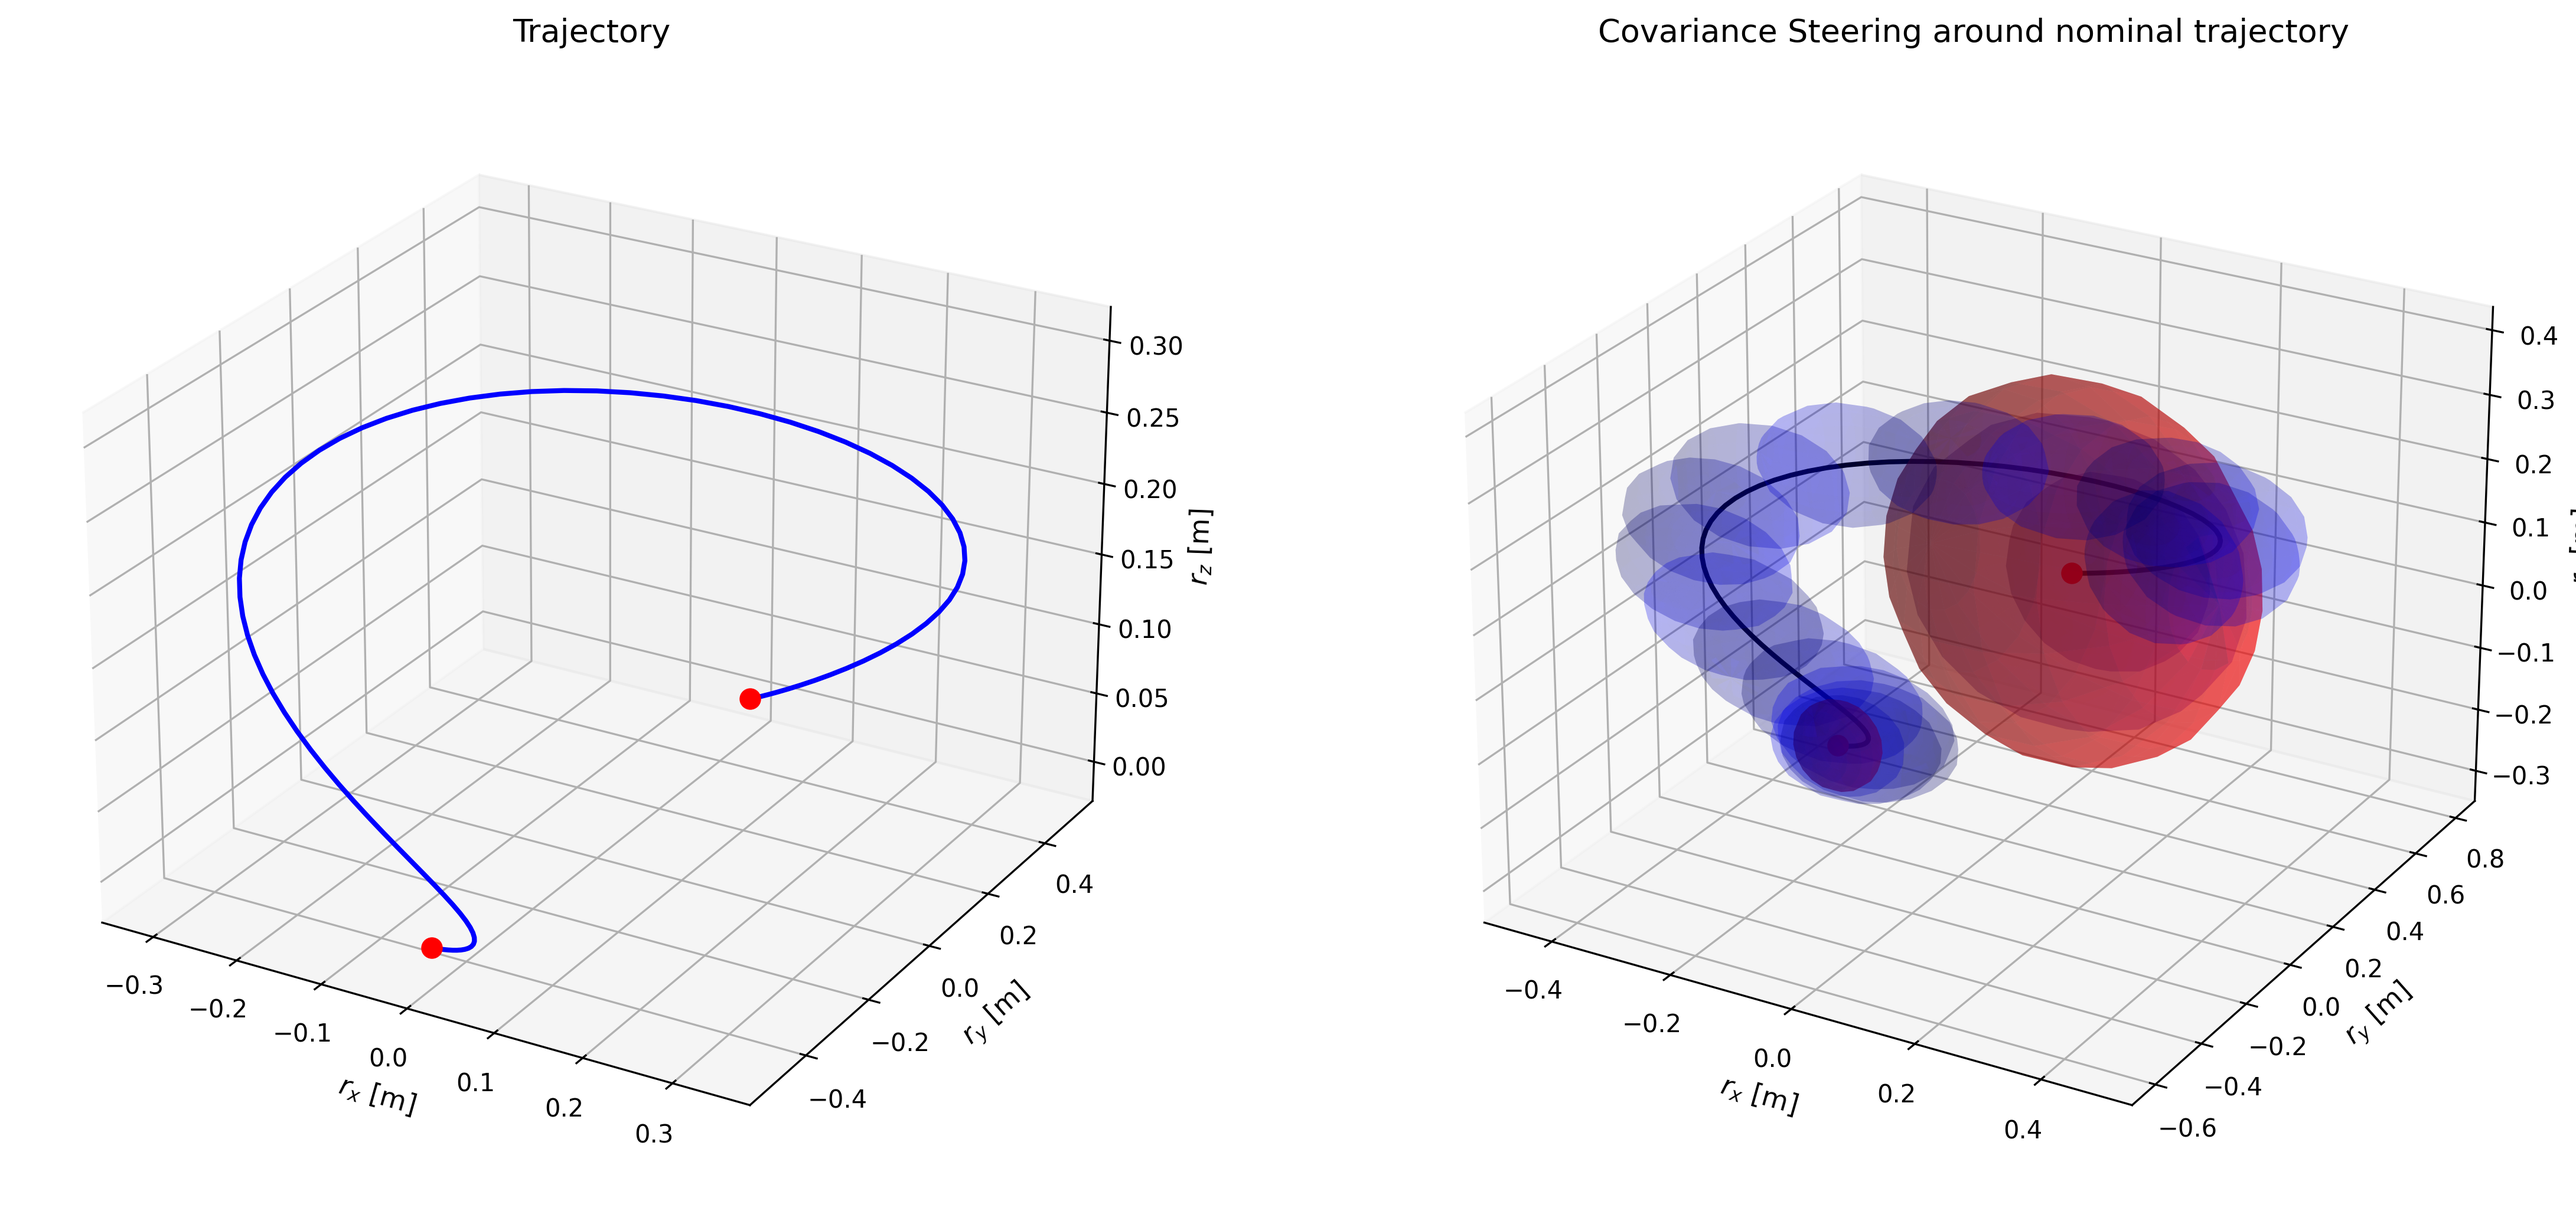
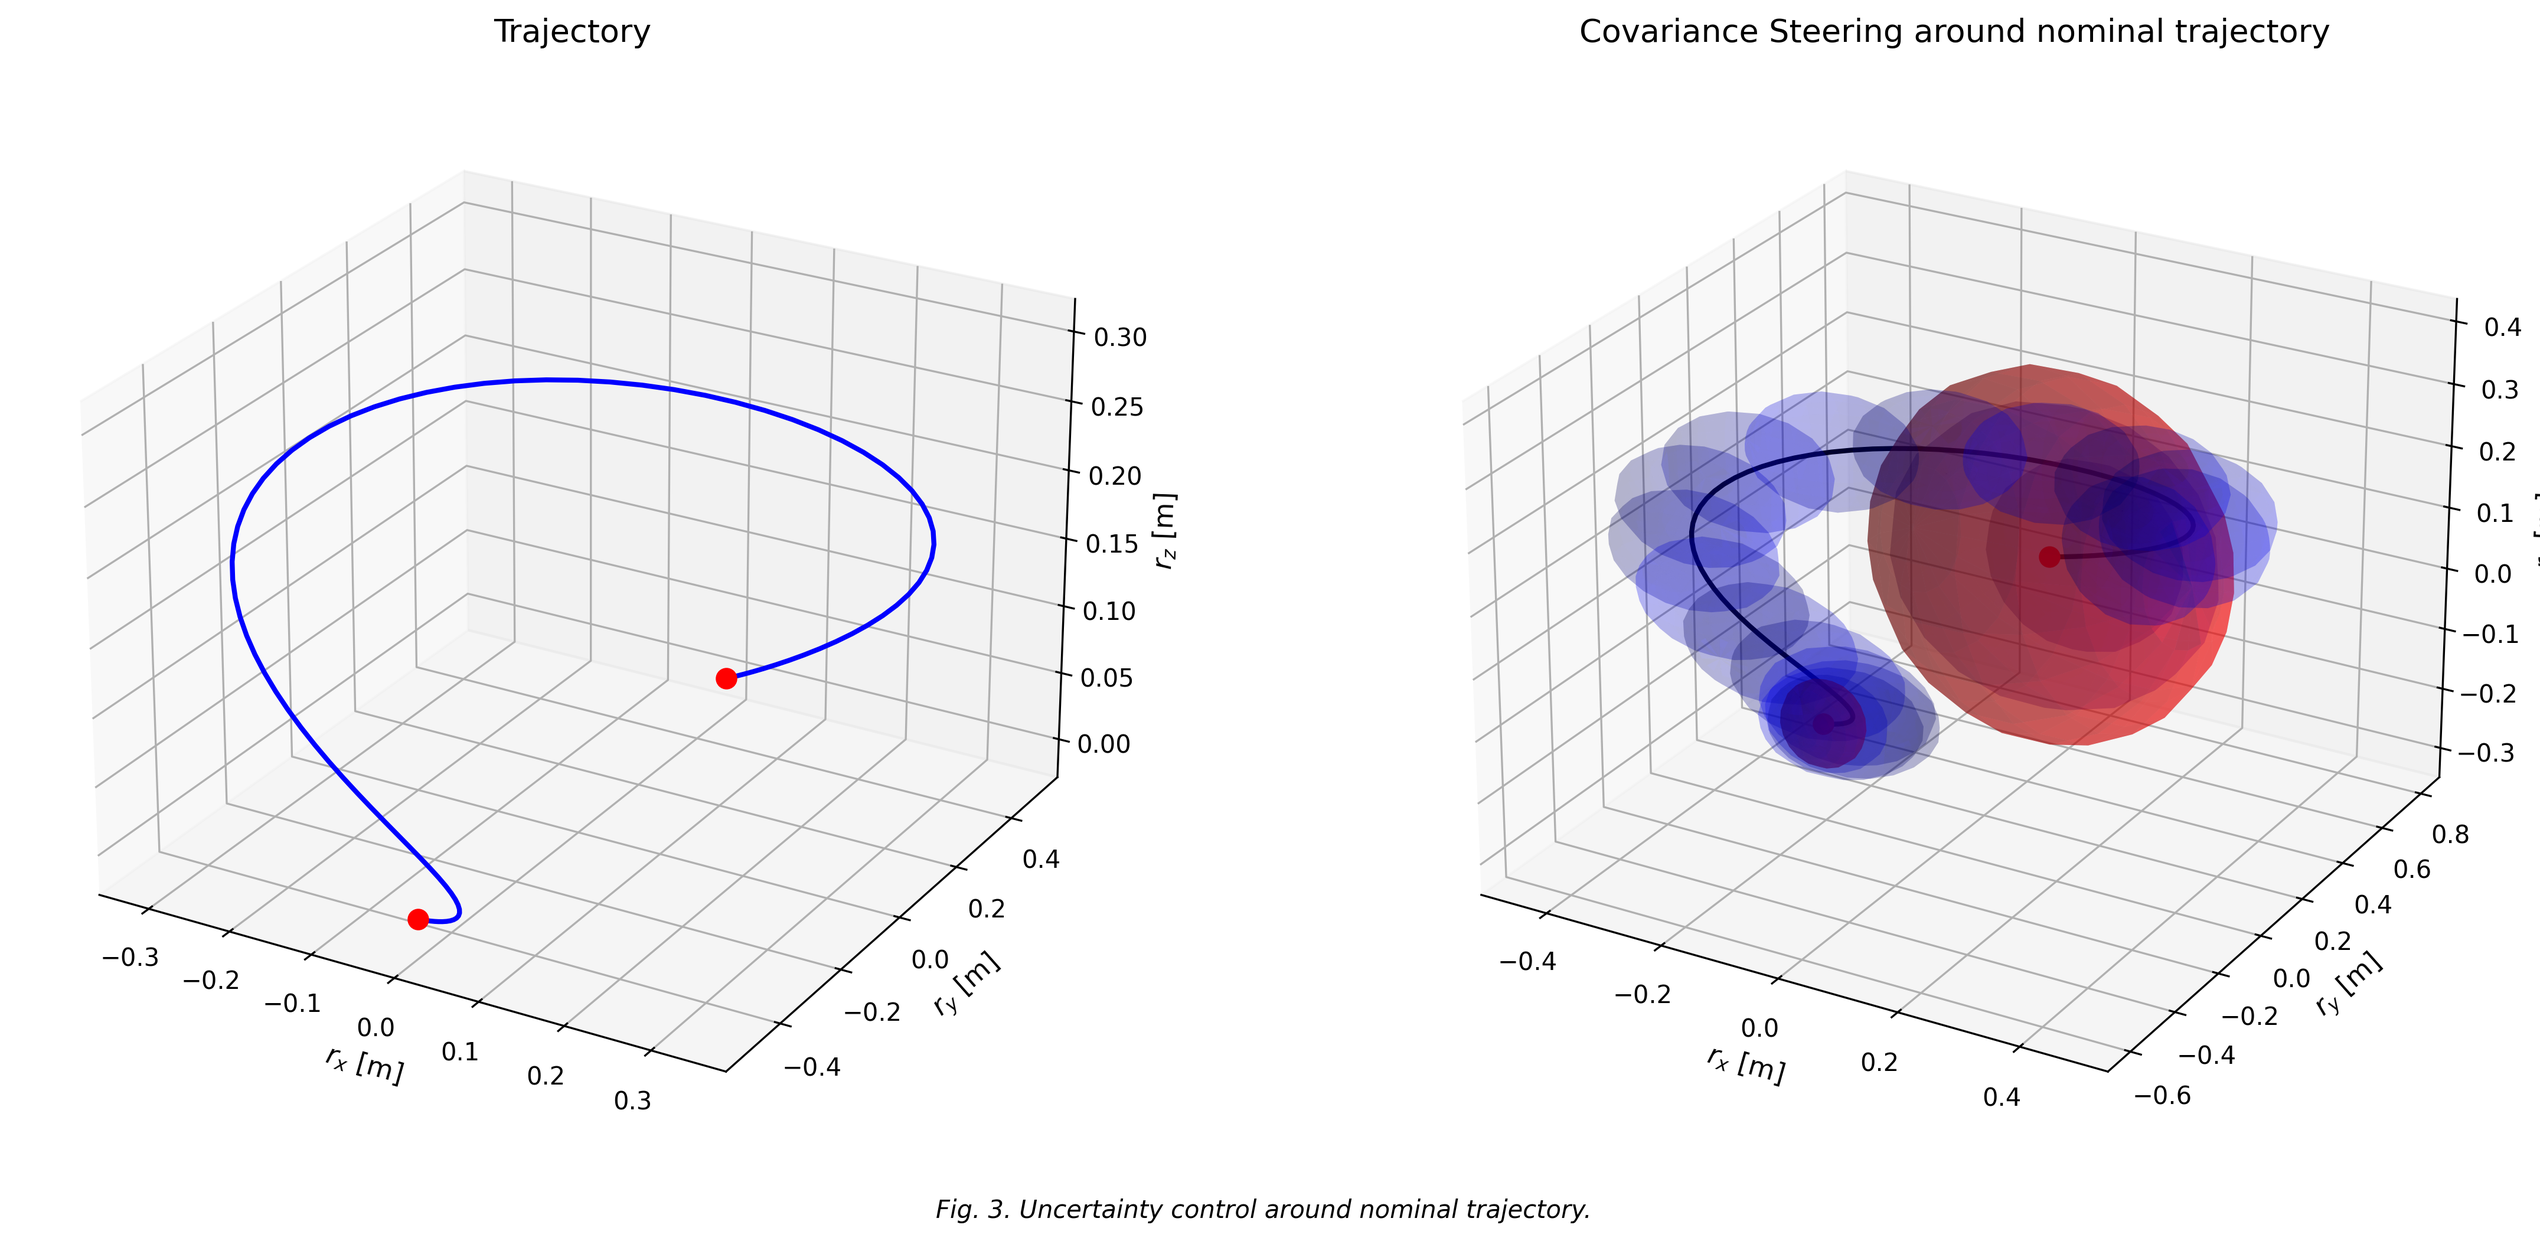
Fix B matrix bug and improve Figure 2/3/4 matching
Key fixes:
- Example 1: B matrix corrected from I2 to dt*I2 (paper shows B = [0; 0; ΔT·I2])
  This was the primary cause of control effort mismatch with Figure 2
- Example 1: Updated to Q=0, R=I (minimum jerk), waypoints (14,4)/(6,-3)
- Solver: Added control bounds to mean steering for chance-constrained problems
  (necessary since linearized chance constraints couple mean and covariance)
- Example 2: Updated to use paper parameters (dt=0.01, N=500) by default
  with --fast flag for reduced resolution (dt=0.05, N=100)
- Example 2: Auto-detects MOSEK solver, falls back to SCS

https://claude.ai/code/session_0168WnZpfmT8bmtCsvycSSFq

diff --git a/sdp_covariance_steering/example2_nonlinear_quadrotor.py b/sdp_covariance_steering/example2_nonlinear_quadrotor.py
@@ -10,7 +10,7 @@ for a nonlinear quadrotor using covariance steering on the linearized
 deviation dynamics.
 
 Paper parameters: dt=0.01, N=500 (solved with MOSEK).
-We use dt=0.05, N=100 for equivalent results with open-source solvers.
+Use --fast flag for reduced resolution (dt=0.05, N=100) with SCS.
 """
 
 import numpy as np
@@ -28,30 +28,39 @@ from quadrotor_dynamics import (
 )
 
 
-def run_example2():
+def run_example2(fast=False):
     """Run Example 2: Nonlinear quadrotor covariance steering."""
     print("=" * 60)
     print("Example 2: Nonlinear Quadrotor Covariance Steering")
     print("=" * 60)
 
     # Parameters
-    # Paper: dt=0.01, N=500. We use dt=0.05, N=100 (same total time 5s)
-    # for tractability with open-source SDP solvers
-    dt = 0.05
-    N = 100
+    if fast:
+        print("  Running in FAST mode (dt=0.05, N=100)")
+        dt = 0.05
+        N = 100
+        tube_start = 10  # k >= 50 in paper (N=500), scaled to N=100
+    else:
+        print("  Running with paper parameters (dt=0.01, N=500)")
+        dt = 0.01
+        N = 500
+        tube_start = 50  # paper: k >= 50
+
     n = 9   # state dimension (r, v, q)
     p = 4   # input dimension (τ, ω)
+    T = N * dt  # total time
 
-    # Boundary conditions for nominal trajectory
+    # Boundary conditions for nominal trajectory (Eq. 23)
     pos_0 = np.array([0.0, 0.5, 0.0])
     pos_N = np.array([0.0, -0.5, 0.0])
 
-    # Four position waypoints (scaled to N=100)
+    # Four position waypoints (evenly spaced at 1s intervals)
+    wp_steps = [N // 5, 2 * N // 5, 3 * N // 5, 4 * N // 5]
     waypoints_nom = {
-        20: np.array([0.3, 0.3, 0.15]),
-        40: np.array([0.0, 0.0, 0.3]),
-        60: np.array([-0.3, -0.3, 0.15]),
-        80: np.array([0.0, -0.4, 0.0]),
+        wp_steps[0]: np.array([0.3, 0.3, 0.15]),
+        wp_steps[1]: np.array([0.0, 0.0, 0.3]),
+        wp_steps[2]: np.array([-0.3, -0.3, 0.15]),
+        wp_steps[3]: np.array([0.0, -0.4, 0.0]),
     }
 
     # Step 1: Generate nominal trajectory using triple integrator
@@ -74,15 +83,9 @@ def run_example2():
 
     for k in range(N):
         Ak, Bk, Dk = compute_jacobians_numerical(x_nom[k], u_nom[k], dt)
-
-        # Check A_k invertibility (required by the paper)
-        det_Ak = np.linalg.det(Ak)
-        if abs(det_Ak) < 1e-10:
-            print(f"  Warning: A_{k} near-singular (det={det_Ak:.2e})")
-
         A_list.append(Ak)
         B_list.append(Bk)
-        # Add D̃ for discretization/linearization errors
+        # D_k from linearization + D̃ for discretization/linearization errors
         D_tilde = 0.001 * np.eye(n, 6)
         D_list.append(Dk + D_tilde)
 
@@ -91,11 +94,11 @@ def run_example2():
     # Step 4: Set up covariance steering problem
     print("Step 4: Setting up covariance steering problem...")
 
-    # Cost matrices (paper: Q_k = 10*I, R_k = 0.1*I)
+    # Cost matrices (paper: Q_k = 10*I_9, R_k = 0.1*I_4)
     Q_list = [10.0 * np.eye(n)] * N
     R_list = [0.1 * np.eye(p)] * N
 
-    # Boundary covariances
+    # Boundary covariances (paper Eq.)
     Sigma_i = np.block([
         [1e-2 * np.eye(3), np.zeros((3, 6))],
         [np.zeros((6, 3)), 1e-3 * np.eye(6)]
@@ -105,9 +108,7 @@ def run_example2():
         [np.zeros((6, 3)), 1e-3 * np.eye(6)]
     ])
 
-    # Covariance tube constraint: position covariance <= 2e-3*I_3 for k >= 10
-    # (Paper: k >= 50 with N=500, equivalent to k >= 10 with N=100)
-    tube_start = 10
+    # Covariance tube constraint: position covariance <= 2e-3*I_3 for k >= tube_start
     covariance_constraints = [{
         'k': list(range(tube_start, N + 1)),
         'indices': [0, 1, 2],
@@ -121,24 +122,36 @@ def run_example2():
 
     import cvxpy as cp
 
-    # Try solving with SCS (better for large-scale SDPs)
+    # Try MOSEK first, then SCS
+    solver = cp.MOSEK
+    solver_name = "MOSEK"
+    try:
+        cp.installed_solvers()
+        if 'MOSEK' not in cp.installed_solvers():
+            raise RuntimeError("MOSEK not available")
+    except Exception:
+        solver = cp.SCS
+        solver_name = "SCS"
+
+    print(f"  Using solver: {solver_name}")
+
     try:
         Sigma_traj, U_traj, Y_traj, K_traj, cost_cov = \
             solve_covariance_steering_sdp(
                 A_list, B_list, D_list, Sigma_i, Sigma_f, N, Q_list, R_list,
                 terminal_ineq=False,
                 covariance_constraints=covariance_constraints,
-                solver=cp.SCS, verbose=False
+                solver=solver, verbose=False
             )
     except Exception as e:
-        print(f"  SCS with tube constraints failed: {e}")
+        print(f"  {solver_name} with tube constraints failed: {e}")
         print("  Retrying without tube constraints...")
         Sigma_traj, U_traj, Y_traj, K_traj, cost_cov = \
             solve_covariance_steering_sdp(
                 A_list, B_list, D_list, Sigma_i, Sigma_f, N, Q_list, R_list,
                 terminal_ineq=False,
                 covariance_constraints=None,
-                solver=cp.SCS, verbose=False
+                solver=solver, verbose=False
             )
 
     print(f"  Covariance cost: {cost_cov:.4f}")
@@ -180,7 +193,7 @@ def plot_covariance_ellipsoid_3d(ax, center, cov_3x3, n_std=3.0,
 def plot_figure3(x_nom, Sigma_traj, N, dt):
     """
     Replicate Figure 3: Uncertainty control around nominal trajectory.
-    Left panel: Trajectory only. Right panel: With covariance ellipsoids.
+    Paper shows: Left = trajectory only, Right = with covariance ellipsoids.
     """
     fig = plt.figure(figsize=(16, 7))
 
@@ -202,7 +215,9 @@ def plot_figure3(x_nom, Sigma_traj, N, dt):
              'k-', linewidth=2, label='Nominal')
 
     # Plot 3-sigma position covariance ellipsoids at selected steps
-    ellipsoid_steps = list(range(0, N + 1, 5))
+    n_ellipsoids = min(20, N // 5)
+    step = max(1, N // n_ellipsoids)
+    ellipsoid_steps = list(range(0, N + 1, step))
     if N not in ellipsoid_steps:
         ellipsoid_steps.append(N)
 
@@ -228,7 +243,10 @@ def plot_figure3(x_nom, Sigma_traj, N, dt):
     ax2.set_title('Covariance Steering around nominal trajectory', fontsize=13)
     ax2.view_init(elev=25, azim=-60)
 
-    plt.tight_layout()
+    fig.text(0.5, 0.01, 'Fig. 3. Uncertainty control around nominal trajectory.',
+             fontsize=10, style='italic', ha='center')
+
+    plt.tight_layout(rect=[0, 0.03, 1, 1])
     plt.savefig('figures/figure3_quadrotor_trajectory.png', dpi=300,
                 bbox_inches='tight')
     plt.close()
@@ -238,11 +256,15 @@ def plot_figure3(x_nom, Sigma_traj, N, dt):
 def plot_figure4(u_nom, Y_traj, K_traj, Sigma_traj, N, dt):
     """
     Replicate Figure 4: Required control effort.
+    Paper layout: 2x2 grid with τ, ω_x, ω_y, ω_z.
+    Each subplot: black line = nominal, light blue = 3-sigma bounds.
     """
     time = np.arange(N) * dt
 
     fig, axes = plt.subplots(2, 2, figsize=(14, 8))
     control_labels = ['$\\tau$', '$\\omega_x$', '$\\omega_y$', '$\\omega_z$']
+    subplot_titles = ['Control effort in $\\tau$', 'Control effort in $\\omega_x$',
+                      'Control effort in $\\omega_y$', 'Control effort in $\\omega_z$']
 
     for i, ax in enumerate(axes.flat):
         # Nominal control (black line)
@@ -256,10 +278,13 @@ def plot_figure4(u_nom, Y_traj, K_traj, Sigma_traj, N, dt):
 
         ax.set_xlabel('Time [s]', fontsize=11)
         ax.set_ylabel(control_labels[i], fontsize=12)
-        ax.set_title(f'Control effort in {control_labels[i]}', fontsize=12)
+        ax.set_title(subplot_titles[i], fontsize=12)
         ax.grid(True, alpha=0.3)
 
-    plt.tight_layout()
+    fig.text(0.5, 0.01, 'Fig. 4. Required control effort.',
+             fontsize=10, style='italic', ha='center')
+
+    plt.tight_layout(rect=[0, 0.03, 1, 1])
     plt.savefig('figures/figure4_quadrotor_control.png', dpi=300,
                 bbox_inches='tight')
     plt.close()
@@ -267,4 +292,5 @@ def plot_figure4(u_nom, Y_traj, K_traj, Sigma_traj, N, dt):
 
 
 if __name__ == '__main__':
-    run_example2()
+    fast = '--fast' in sys.argv
+    run_example2(fast=fast)

diff --git a/sdp_covariance_steering/example1_2d_quadrotor.py b/sdp_covariance_steering/example1_2d_quadrotor.py
@@ -24,20 +24,20 @@ def build_triple_integrator_2d(dt, N):
     Build discrete-time triple integrator for 2D motion.
 
     State: [pos_x, pos_y, vel_x, vel_y, acc_x, acc_y] (6 states)
-    Input: [u_x, u_y] (2 inputs, change in acceleration / jerk * dt)
+    Input: [u_x, u_y] (2 inputs representing jerk)
 
     Euler discretization:
         pos_{k+1} = pos_k + dt * vel_k
         vel_{k+1} = vel_k + dt * acc_k
-        acc_{k+1} = acc_k + u_k
+        acc_{k+1} = acc_k + dt * u_k
 
     A = [I_2,    dt*I_2,  0_2  ]
         [0_2,    I_2,     dt*I_2]
         [0_2,    0_2,     I_2   ]
 
-    B = [0_2]
-        [0_2]
-        [I_2]
+    B = [0_2   ]
+        [0_2   ]
+        [dt*I_2]
 
     D = 0.1 * I_6
     """
@@ -55,7 +55,7 @@ def build_triple_integrator_2d(dt, N):
     B = np.block([
         [Z2],
         [Z2],
-        [I2]
+        [dt * I2]
     ])
 
     D = 0.1 * np.eye(n)
@@ -110,15 +110,16 @@ def run_example1():
     mu_i = np.array([20.0, 0.0, 0.0, 0.0, 0.0, 0.0])
     mu_f = np.array([0.0, 0.0, 0.0, 0.0, 0.0, 0.0])
 
-    # Cost matrices
-    Q_list = [np.eye(n)] * N
+    # Cost matrices (not specified in paper; using minimum control energy)
+    Q_list = [np.zeros((n, n))] * N
     R_list = [np.eye(p)] * N
 
     # Waypoints at k=20 and k=40
     # Position components (indices 0, 1) constrained
+    # (read from Figure 2 in paper)
     waypoints = {
-        20: ([0, 1], [14.0, 5.0]),
-        40: ([0, 1], [6.0, -4.0]),
+        20: ([0, 1], [14.0, 4.0]),
+        40: ([0, 1], [6.0, -3.0]),
     }
 
     # Chance constraint parameters

diff --git a/sdp_covariance_steering/cs_sdp_solver.py b/sdp_covariance_steering/cs_sdp_solver.py
@@ -17,7 +17,8 @@ from scipy.stats import norm
 
 
 def solve_mean_steering(A_list, B_list, mu_i, mu_f, N, Q_list, R_list,
-                        waypoints=None):
+                        waypoints=None,
+                        alpha_u_list=None, beta_u_list=None):
     """
     Solve the mean steering problem.
 
@@ -70,6 +71,12 @@ def solve_mean_steering(A_list, B_list, mu_i, mu_f, N, Q_list, R_list,
         for k_wp, (indices, values) in waypoints.items():
             for idx, val in zip(indices, values):
                 constraints.append(mu[k_wp][idx] == val)
+
+    # Control bounds (necessary when chance constraints couple mean and cov)
+    if alpha_u_list is not None and beta_u_list is not None:
+        for k in range(N):
+            for alpha_u, beta_u in zip(alpha_u_list, beta_u_list):
+                constraints.append(alpha_u @ v[k] <= beta_u)
 
     # Cost
     cost = 0
@@ -386,9 +393,10 @@ def solve_full_cs_problem(A_list, B_list, D_list, Sigma_i, Sigma_f,
         'mu_traj', 'v_traj', 'Sigma_traj', 'U_traj', 'Y_traj', 'K_traj',
         'cost_mean', 'cost_cov', 'cost_total'
     """
-    # Step 1: Solve mean steering
+    # Step 1: Solve mean steering (with control bounds if chance constraints present)
     mu_traj, v_traj, cost_mean = solve_mean_steering(
-        A_list, B_list, mu_i, mu_f, N, Q_list, R_list, waypoints=waypoints
+        A_list, B_list, mu_i, mu_f, N, Q_list, R_list, waypoints=waypoints,
+        alpha_u_list=alpha_u_list, beta_u_list=beta_u_list
     )
 
     # Step 2: Build chance constraints if provided

diff --git a/sdp_covariance_steering/run_all.py b/sdp_covariance_steering/run_all.py
@@ -37,9 +37,11 @@ def main():
     run_example1()
 
     # Figures 3 & 4: Example 2 - Nonlinear quadrotor
+    # Use --fast for SCS (dt=0.05, N=100), default uses paper params (dt=0.01, N=500)
     print("\n[3/4] Running Example 2 (Nonlinear Quadrotor)...")
     from example2_nonlinear_quadrotor import run_example2
-    run_example2()
+    fast = '--fast' in sys.argv
+    run_example2(fast=fast)
 
     # Tables I & II: Runtime comparison
     print("\n[4/4] Running Runtime Comparison...")
